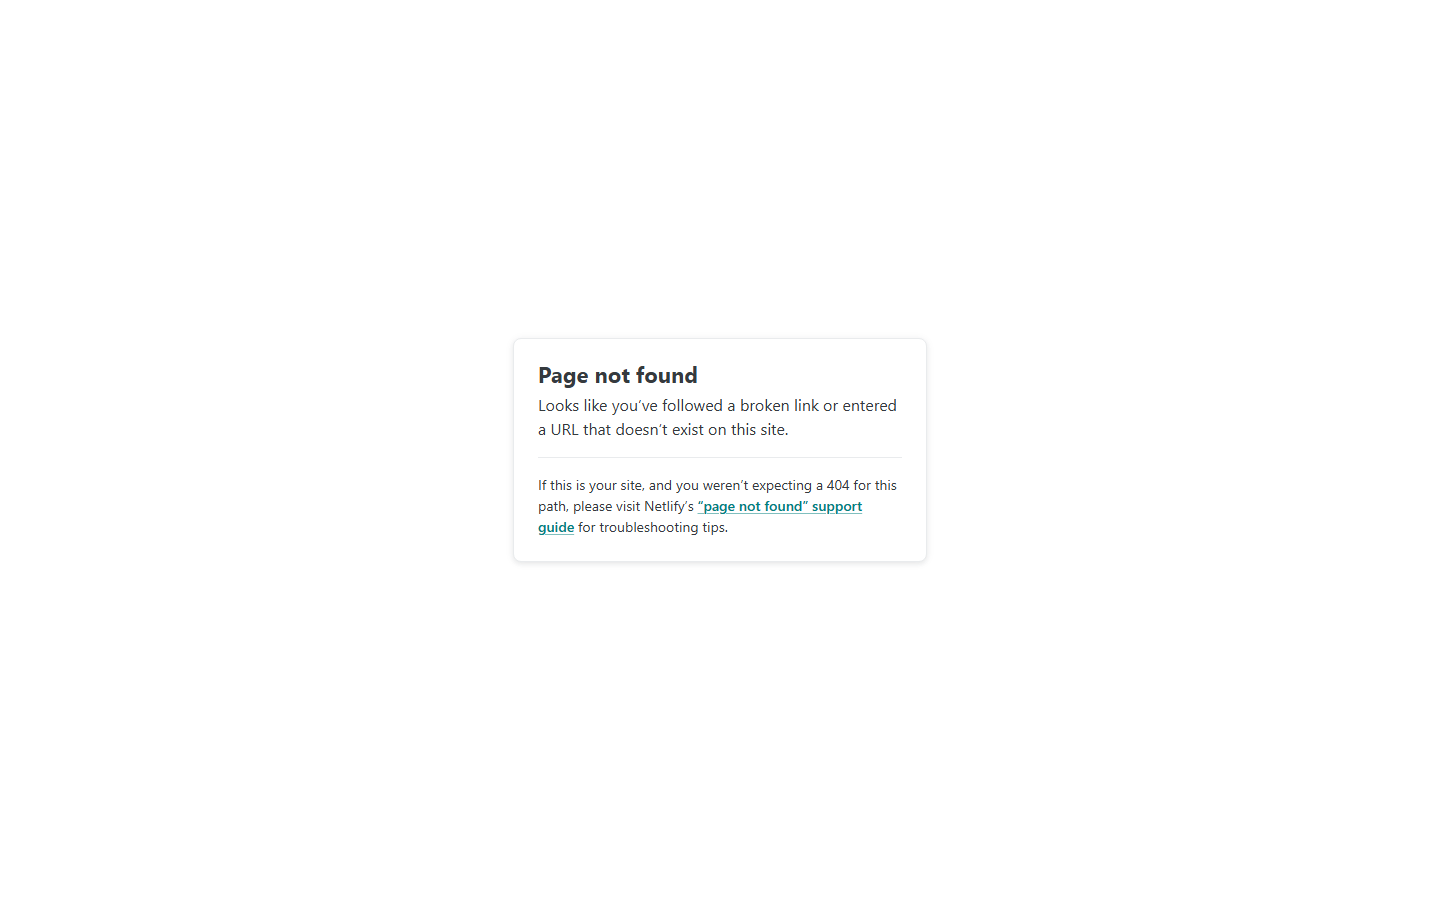
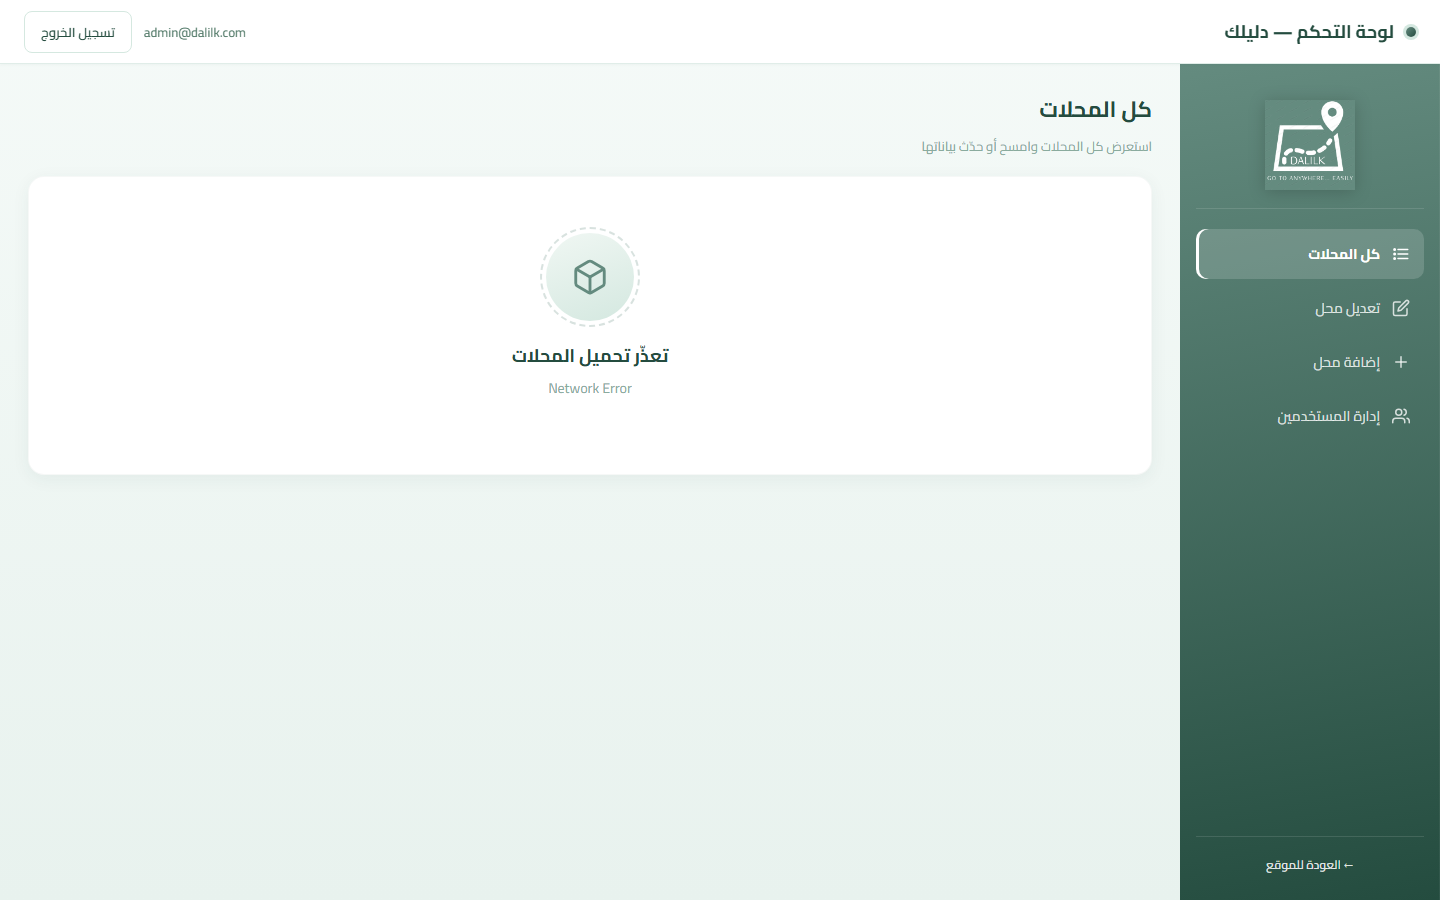
feat: light palette unified to cream family + Dalilk real shots
Light palette: every neutral shifted to hue 86.64 (the warm cream
the user picked) so fg/bg/lines/plate are in the same colour family.
The previous neutral hues 70/80/85 read as cold next to the chosen
plate. Accent stays at hue 60 (the deep coral) for contrast.

Dalilk: re-captured from the user's locally-running dev server at
localhost:3000 via the /admin/login route. Drops the old netlify
404 + tiny-render shots and replaces them with six real screens —
admin shell, add-shop form, edit-shop, manage-users, admin login,
public home. Project record updated:

- Title: "دليلك — Dalilk Places Guide" (the actual product, not
  the "Audio Capture & PDF Reports" placeholder from the original
  brief)
- Category, tag, overview, features all rewritten to match the
  bilingual local-places guide it really is
- Stack: drops jsPDF (not used in this app), keeps React + Vite +
  Express + Firebase + MUI

Adds scripts/capture-dalilk-local.mjs as a one-off helper for
re-capturing this app from a local dev server.

diff --git a/src/constants/projects.js b/src/constants/projects.js
@@ -285,28 +285,40 @@ export const PROJECTS = [
   },
   {
     id: 'dalilk',
-    title: 'Dalilk — Audio Capture & PDF Reports',
-    category: 'Full-stack tool',
+    title: 'دليلك — Dalilk Places Guide',
+    category: 'Full-stack directory',
     year: 2024,
     pill: { tone: 'accent', label: 'Live' },
     tag:
-      'A full-stack tool for capturing audio in the browser and turning sessions into structured PDF reports — recorded with react-mic, persisted via Firebase, exported via jsPDF.',
+      'A bilingual local-places guide for Egypt — schools, clinics, mosques, restaurants — with an admin console for adding shops, editing entries, and managing users.',
     overview: [
-      'React + Vite frontend records via react-mic and audio-react-recorder. Express backend persists sessions to Firestore through Firebase 12. jsPDF + jspdf-autotable produce tabular exports clean enough to send to a client. Auth-gated with Firebase Auth, CORS-aware for the API split.',
+      'Public-facing Arabic-first directory site with an admin console behind login. Admins add shops with name, rating, categories, geographic location (governorate → district → neighbourhood), and detailed addresses; the site surfaces them on the public side with search and category filters.',
+      "Built with React + Vite on the frontend, Express + Firebase on the backend; auth-gated admin and CORS-aware split between web and API.",
     ],
     features: [
-      'Browser audio capture via react-mic / audio-react-recorder.',
-      'Express + Firestore session persistence.',
-      'jsPDF + autotable export pipeline.',
-      'Firebase Auth-gated, CORS-aware API split.',
+      'Arabic-first RTL UI with English fallback labels.',
+      'Admin console: add / edit shop, manage users, role-aware navigation.',
+      'Geographic hierarchy — governorate, district, neighbourhood.',
+      'Login + Google sign-in via Firebase Auth.',
     ],
     meta: {
-      stack: ['React 18', 'Vite', 'Express', 'Firebase 12', 'jsPDF'],
+      stack: ['React 18', 'Vite', 'Express', 'Firebase 12', 'Material UI'],
       role: 'Full-stack',
       timeline: '2024',
-      reach: 'Internal tool',
+      reach: 'Public guide + admin console',
     },
-    slides: slidesFor('dalilk', [1, 2], ['Home', 'Detail']),
+    slides: slidesFor(
+      'dalilk',
+      [3, 5, 4, 6, 2, 1],
+      [
+        'Admin shell',
+        'Add shop',
+        'Edit shop',
+        'Manage users',
+        'Admin login',
+        'Public home',
+      ]
+    ),
     actions: [
       {
         kind: 'live',

diff --git a/src/app/globals.css b/src/app/globals.css
@@ -27,22 +27,22 @@
 }
 
 [data-theme='light'] {
-  --bg:          oklch(0.965 0.012 85);
-  --bg-1:        oklch(0.945 0.014 85);
-  --bg-2:        oklch(0.925 0.016 85);
-  --plate:       oklch(0.94 0.014 85);
+  --bg:          oklch(0.965 0.010 86.64);
+  --bg-1:        oklch(0.95  0.012 86.64);
+  --bg-2:        oklch(0.93  0.014 86.64);
+  --plate:       oklch(0.94  0.010 86.64);
 
-  --fg:          oklch(0.22 0.012 70);
-  --fg-dim:      oklch(0.45 0.012 70);
-  --fg-mute:     oklch(0.62 0.01 70);
+  --fg:          oklch(0.28  0.018 86.64);
+  --fg-dim:      oklch(0.46  0.014 86.64);
+  --fg-mute:     oklch(0.62  0.010 86.64);
 
-  --line:        oklch(0.86 0.012 80);
-  --line-strong: oklch(0.78 0.014 80);
+  --line:        oklch(0.86  0.012 86.64);
+  --line-strong: oklch(0.78  0.014 86.64);
 
   --accent:      oklch(0.62 0.13 60);
   --accent-soft: oklch(0.62 0.13 60 / 0.10);
   --accent-line: oklch(0.62 0.13 60 / 0.35);
-  --accent-ink:  oklch(0.965 0.012 85);
+  --accent-ink:  oklch(0.965 0.010 86.64);
 
   color-scheme: light;
 }

diff --git a/src/constants/about.js b/src/constants/about.js
@@ -5,7 +5,7 @@ export const ABOUT = {
     'Three years shipping production interfaces — multi-role dashboards, ERP modules, marketing sites — for teams from agencies to in-house product.',
   paragraphs: [
     "I'm a frontend engineer based in Cairo. The last three years I've been shipping production interfaces — multi-role dashboards, ERP modules, marketing sites — across agency, in-house, and remote teams.",
-    "My home is the React / Next.js ecosystem with Material UI for the design layer, plus the boring 90% nobody talks about: REST integrations, manual QA passes, cross-browser checks, and component libraries that pay the next engineer back. I think in components and tokens, and prefer a small system that scales over a stack of one-off pages.",
+    "My home is the React / Next.js ecosystem with Material UI or tailwind for the design layer, plus the boring 90% nobody talks about: REST integrations, manual QA passes, cross-browser checks, and component libraries that pay the next engineer back. I think in components and tokens, and prefer a small system that scales over a stack of one-off pages.",
     "I'm comfortable past the API boundary too — Node, Express, MySQL, Firebase, auth flows. Not a backend engineer, but I write client code that respects what the server can and can't do.",
     'Looking for a frontend role where the team takes craft seriously — equally happy embedded in a product team or owning a design system.',
   ],